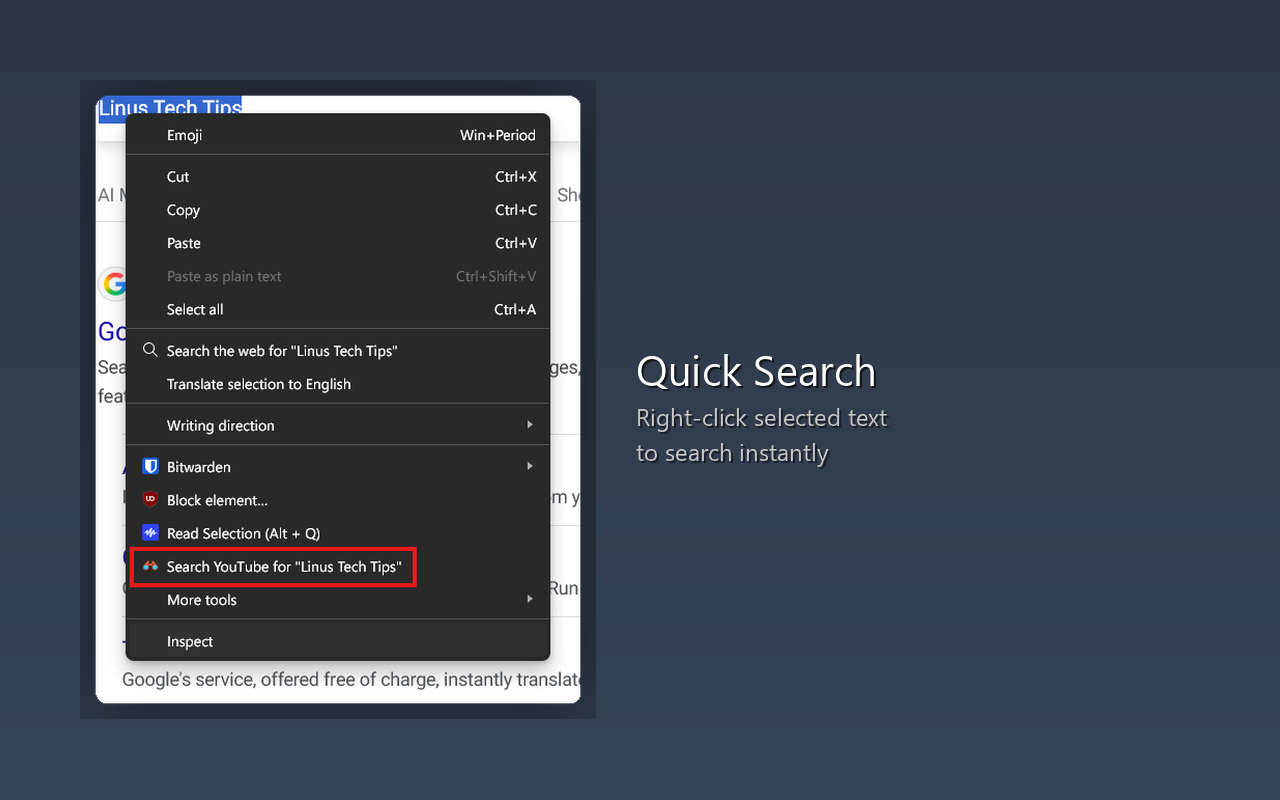
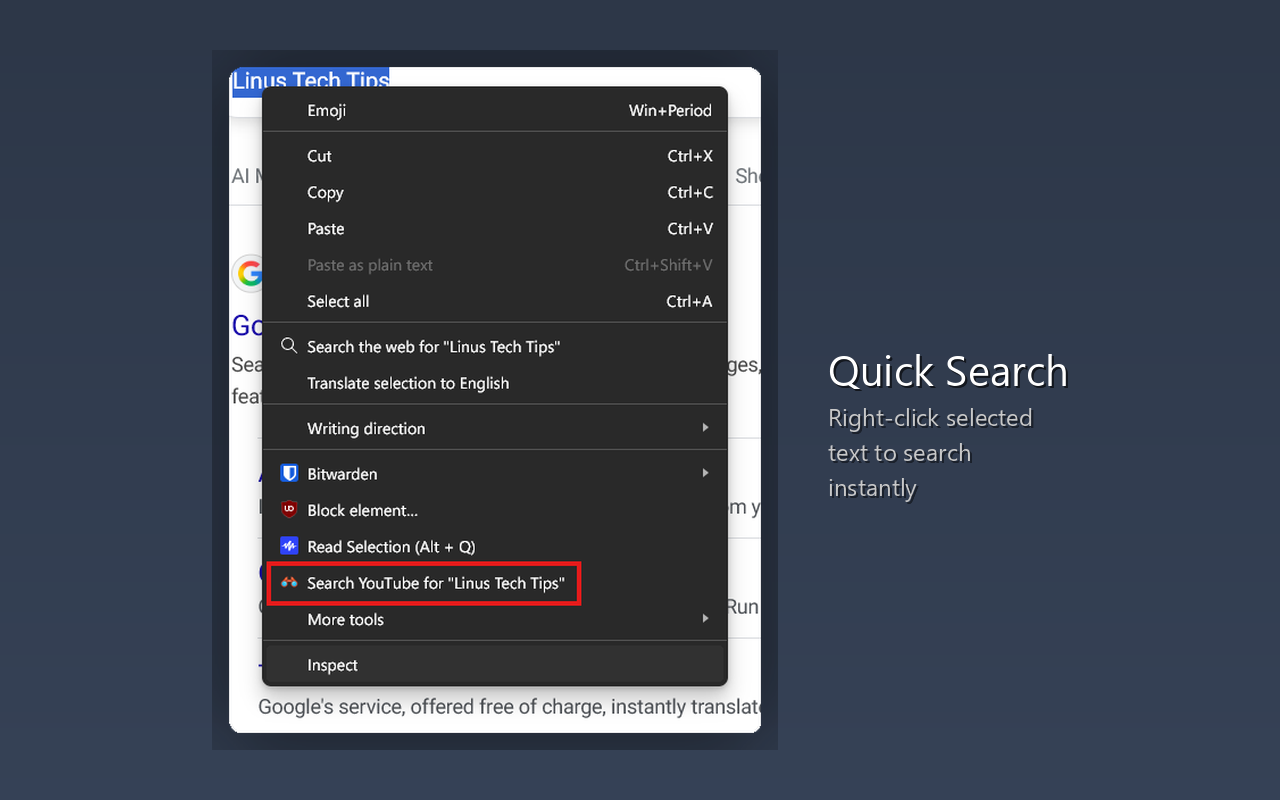
Maximize screenshot size in store listing images
🤖 Generated with [Claude Code](https://claude.com/claude-code)

Changed region(s): [[0.0625, 0.0625, 0.8438, 0.9375], [0.25, 0.2812, 0.3438, 0.3438]]

diff --git a/create-store-images.py b/create-store-images.py
@@ -16,7 +16,9 @@ BACKGROUND_COLOR = (45, 55, 72)  # Slate blue-gray
 ACCENT_COLOR = (59, 130, 246)    # Blue accent
 SHADOW_OFFSET = 15
 SHADOW_BLUR = 30
-PADDING = 80
+PADDING = 60  # Reduced padding for larger screenshots
+ANNOTATION_WIDTH = 240  # Reduced annotation width
+GAP = 50  # Gap between screenshot and annotation
 
 def create_gradient_background(width, height):
     """Create a subtle gradient background"""
@@ -116,17 +118,15 @@ def create_store_image(screenshot_path, output_path, annotation=None, annotation
     background = create_gradient_background(OUTPUT_WIDTH, OUTPUT_HEIGHT)
     background = background.convert('RGBA')
 
-    # Reserve space for annotation on the side
-    annotation_width = 280 if annotation else 0
-
-    # Calculate maximum size for screenshot
-    max_width = OUTPUT_WIDTH - PADDING * 2 - annotation_width - (40 if annotation else 0)
+    # Calculate available space for screenshot
+    reserved_space = ANNOTATION_WIDTH + GAP if annotation else 0
+    max_width = OUTPUT_WIDTH - PADDING * 2 - reserved_space
     max_height = OUTPUT_HEIGHT - PADDING * 2
 
     # Scale screenshot to be as large as possible while fitting
     scale = min(max_width / screenshot.width, max_height / screenshot.height)
-    # Use 95% of available space for a bit of breathing room
-    scale *= 0.95
+    # Use 98% of available space for minimal breathing room
+    scale *= 0.98
 
     screenshot_with_shadow = screenshot_with_shadow.resize(
         (int(screenshot_with_shadow.width * scale),
@@ -134,11 +134,15 @@ def create_store_image(screenshot_path, output_path, annotation=None, annotation
         Image.Resampling.LANCZOS
     )
 
-    # Position screenshot (offset to make room for annotation)
+    # Center the entire screenshot+annotation combo
+    total_width = screenshot_with_shadow.width + (reserved_space if annotation else 0)
+    combo_start_x = (OUTPUT_WIDTH - total_width) // 2
+
+    # Position screenshot
     if annotation_position == 'right':
-        x = PADDING
+        x = combo_start_x
     else:
-        x = PADDING + annotation_width + 40
+        x = combo_start_x + ANNOTATION_WIDTH + GAP
 
     y = (OUTPUT_HEIGHT - screenshot_with_shadow.height) // 2
 
@@ -171,9 +175,9 @@ def create_store_image(screenshot_path, output_path, annotation=None, annotation
 
         # Calculate annotation position
         if annotation_position == 'right':
-            ann_x = x + screenshot_with_shadow.width + 40
+            ann_x = x + screenshot_with_shadow.width + GAP
         else:
-            ann_x = PADDING
+            ann_x = combo_start_x
 
         ann_y = OUTPUT_HEIGHT // 2 - 60
 
@@ -192,7 +196,7 @@ def create_store_image(screenshot_path, output_path, annotation=None, annotation
             words = subtitle.split()
             lines = []
             current_line = []
-            max_width = annotation_width - 20
+            max_width = ANNOTATION_WIDTH - 20
 
             for word in words:
                 current_line.append(word)
